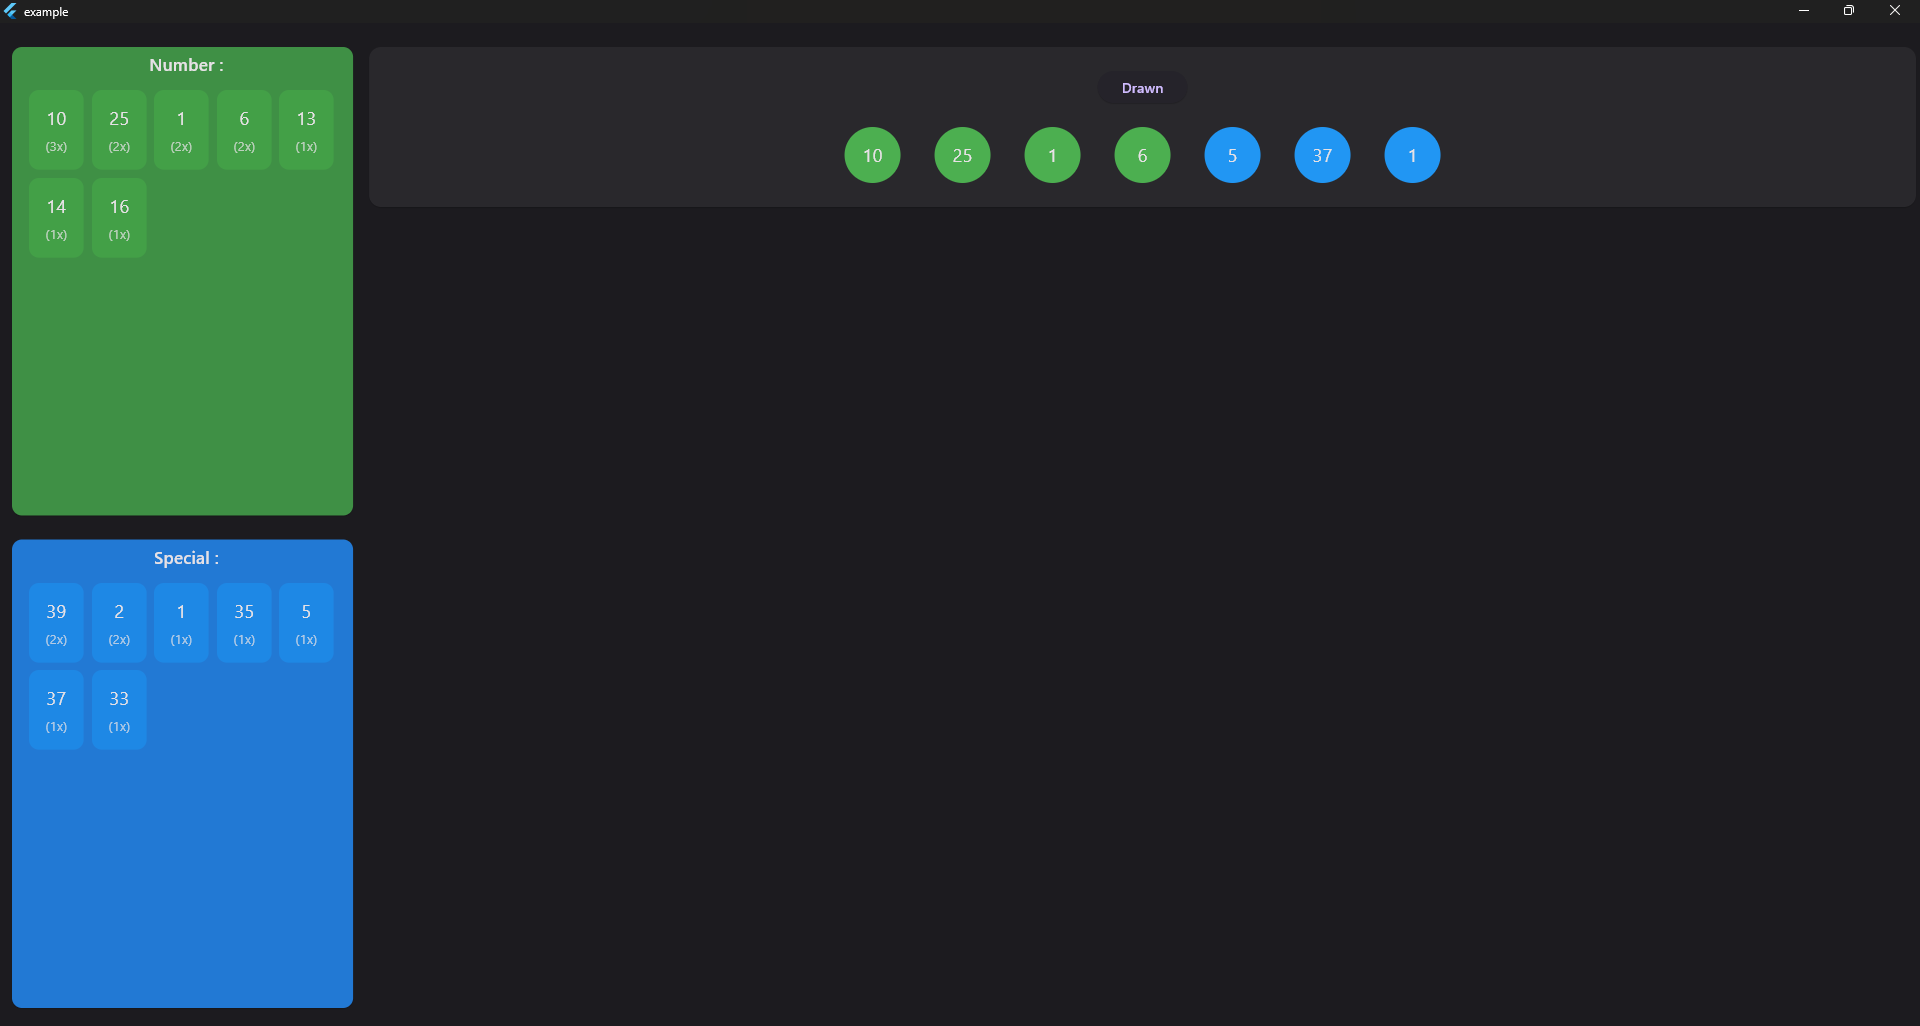
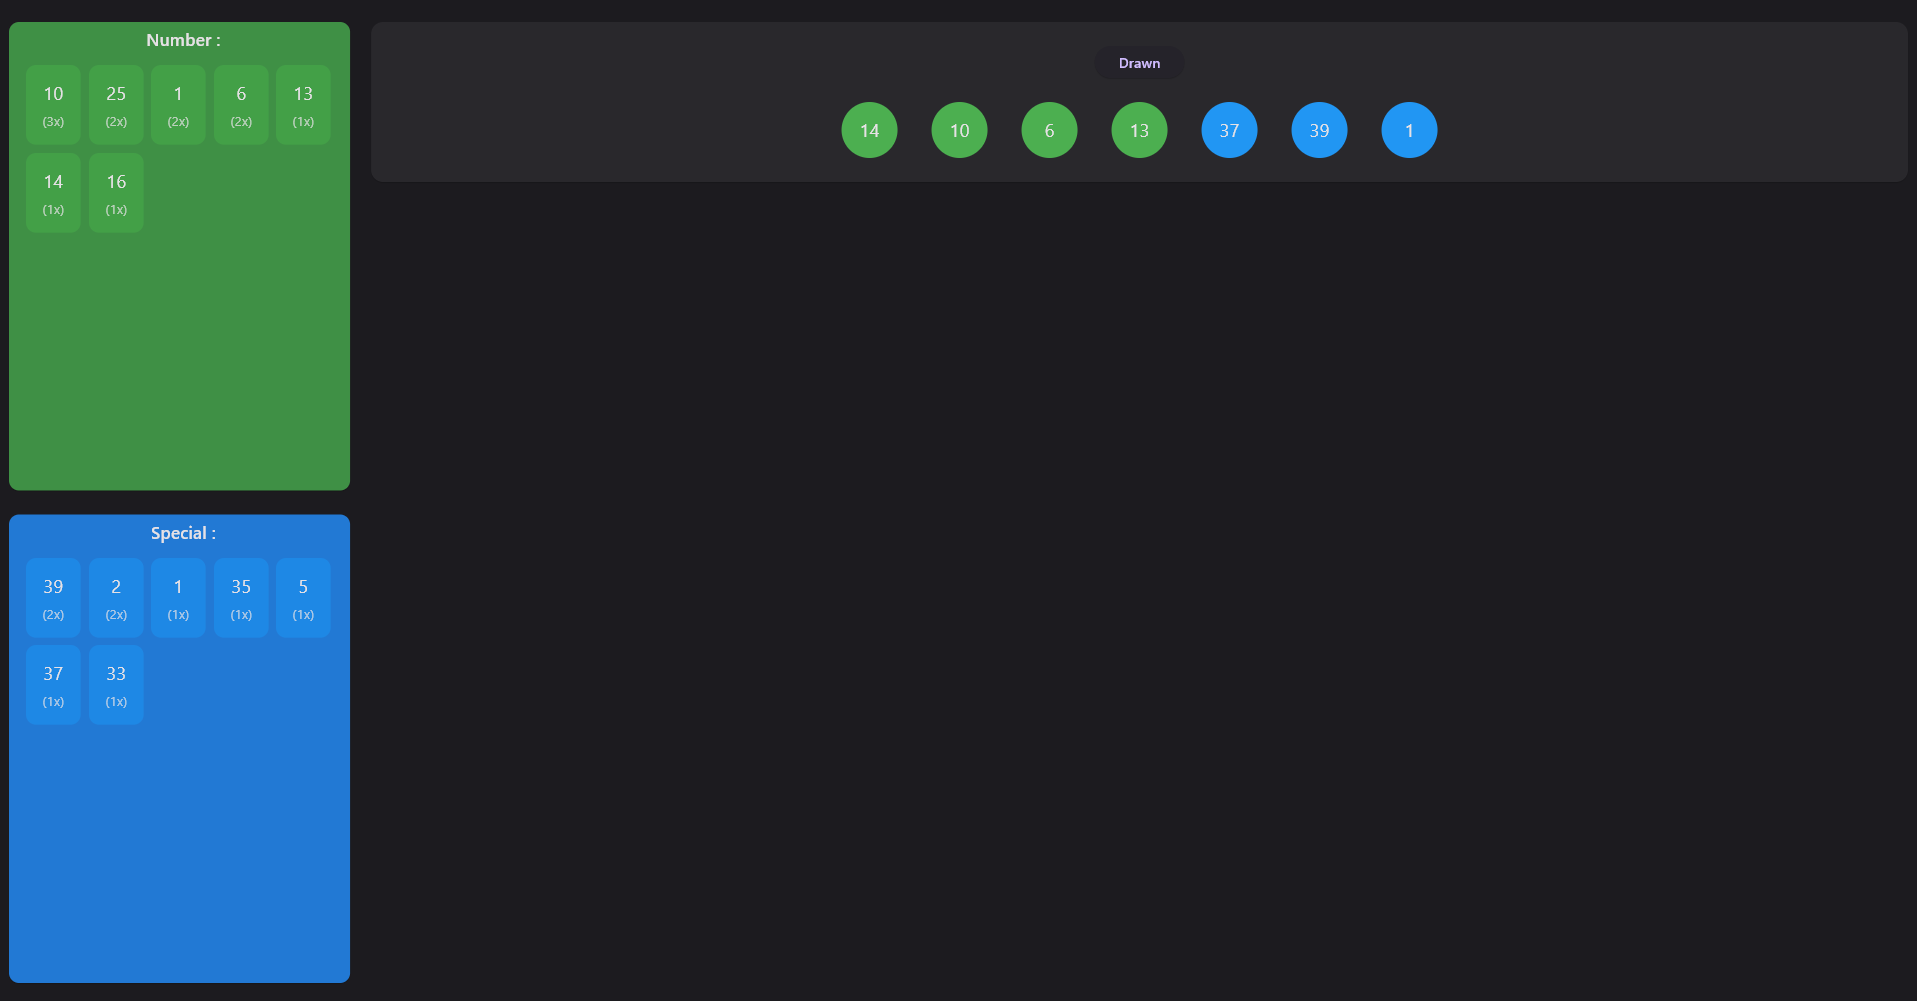
chore: refractor

diff --git a/lib/src/view/screens/lottery_screen.dart b/lib/src/view/screens/lottery_screen.dart
@@ -55,12 +55,15 @@ class LotteryScreen extends StatelessWidget {
               ),
             ),
             Expanded(
-              child: LotteryRandomPick(
-                numbersLength: numbersLength,
-                specialNumbersLength: specialNumbersLength,
-                numberDecoration: numberDecoration,
-                specialNumberDecoration: specialNumberDecoration,
-                cardColor: cardColor,
+              child: Padding(
+                padding: const EdgeInsets.symmetric(horizontal: 5.0),
+                child: LotteryRandomPick(
+                  numbersLength: numbersLength,
+                  specialNumbersLength: specialNumbersLength,
+                  numberDecoration: numberDecoration,
+                  specialNumberDecoration: specialNumberDecoration,
+                  cardColor: cardColor,
+                ),
               ),
             ),
           ],

diff --git a/lib/src/view/widgets/lottery_outputs.dart b/lib/src/view/widgets/lottery_outputs.dart
@@ -109,7 +109,6 @@ class LotteryOutputs extends StatelessWidget {
                   ),
                 ),
               ),
-              const SizedBox(height: 5),
             ],
           ),
         ),
